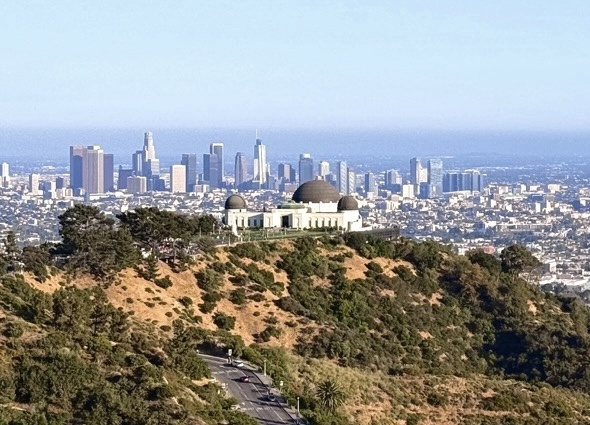
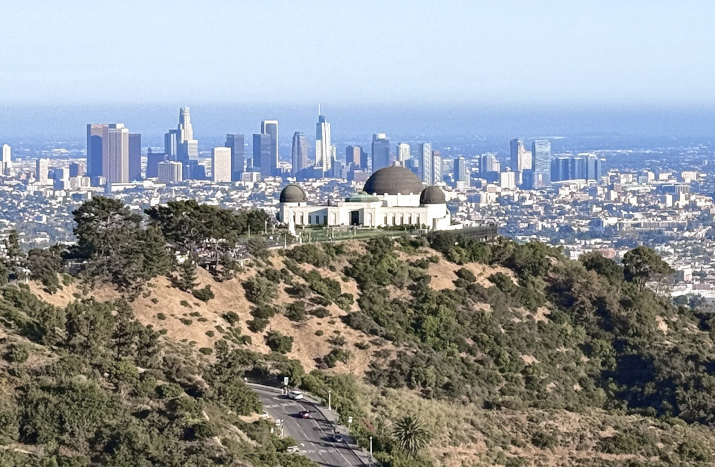
Updates LA images and captions

diff --git a/places/engine.min.js b/places/engine.min.js
@@ -96,7 +96,7 @@ laArr$$module$la_data={id:"la",title:"Los Angeles",showLoading:!0,content:`
                 <img class="photo mobile" src="images/la/sgv-more-mobile.jpg" alt="Towering mountain range in front of a valley filled with neighborhoods" />
                 <figcaption class="region-type">
                   <span class="standard"><img class="title-pin" src="images/svg/pin.svg" alt=""> <a href="#la/sgv-more" tabindex="-1">Glendale, San Gabriel Valley, Pomona Valley & Beyond</a></span>
-                  <span class="mobile title"><img class="title-pin" src="images/svg/pin.svg" alt=""> <a href="#la/sgv-more" tabindex="-1">Glendale, SGV & Beyond</a></span>
+                  <span class="mobile title"><img class="title-pin" src="images/svg/pin.svg" alt=""> <a href="#la/sgv-more" tabindex="-1">Glendale, San Gabriel Valley & Beyond</a></span>
                   <span class="standard">7/8 - San Gabriel Mountains and the peak of Mount Wilson viewed from Monterey Park</span>
                   <span class="mobile">7/8 - San Gabriel Mountains from Monterey Park</span>
                   <span><i class="fa-solid fa-camera" title=", Photo by:"></i> Tim Paik</span>
@@ -111,7 +111,7 @@ laArr$$module$la_data={id:"la",title:"Los Angeles",showLoading:!0,content:`
                 <figcaption class="region-type">
                   <span class="standard"><img class="title-pin" src="images/svg/pin.svg" alt=""> <a href="#la/sfv-more" tabindex="-1">San Fernando Valley, Santa Clarita Valley & Beyond</a></span>
                   <span class="mobile title"><img class="title-pin" src="images/svg/pin.svg" alt=""> <a href="#la/sfv-more" tabindex="-1">San Fernando Valley & Beyond</a></span>
-                  <span class="standard">8/8 - Sandstone formations of the Simi Hills viewed from Chatsworth</span>
+                  <span class="standard">8/8 - Simi Hills sandstone formations viewed from Chatsworth</span>
                   <span class="mobile">8/8 - Chatsworth sandstone formations</span>
                   <span><i class="fa-solid fa-camera" title=", Photo by:"></i> Tim Paik</span>
                 </figcaption>
@@ -178,7 +178,7 @@ laArr$$module$la_data={id:"la",title:"Los Angeles",showLoading:!0,content:`
             <img class="photo mobile" src="images/la/central-la/griffith-mobile.jpg" alt="View of Central LA from Griffith hike" />
             <figcaption>
               <span class="standard">DTLA, Griffith Observatory, and Koreatown high-rises on Wilshire Boulevard (right) viewed from Griffith Park's Mount Hollywood</span>
-              <span class="mobile">Central LA viewed from Griffith Park</span>
+              <span class="mobile">Central LA viewed from Mt. Hollywood</span>
               <span><i class="fa-solid fa-camera" title=", Photo by:"></i> Tim Paik</span>
             </figcaption>
           </figure>
